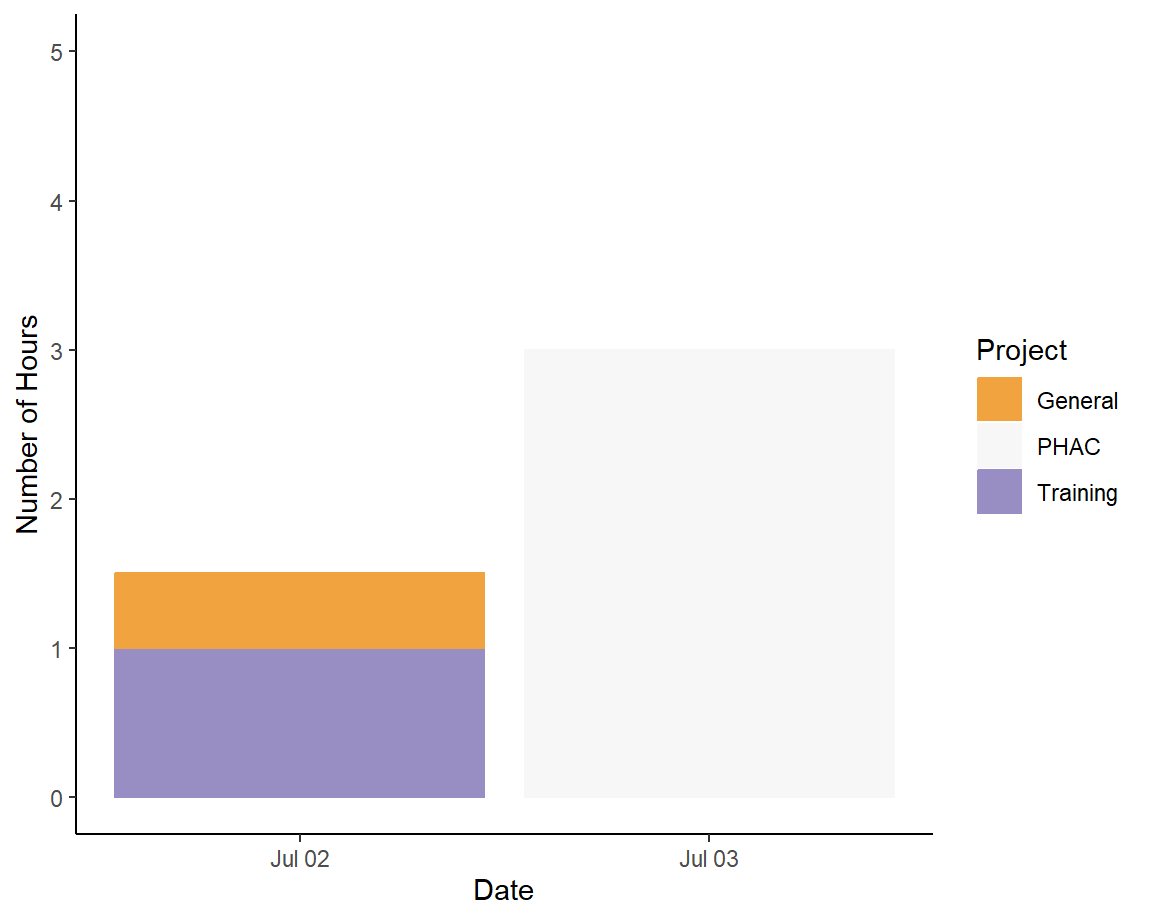
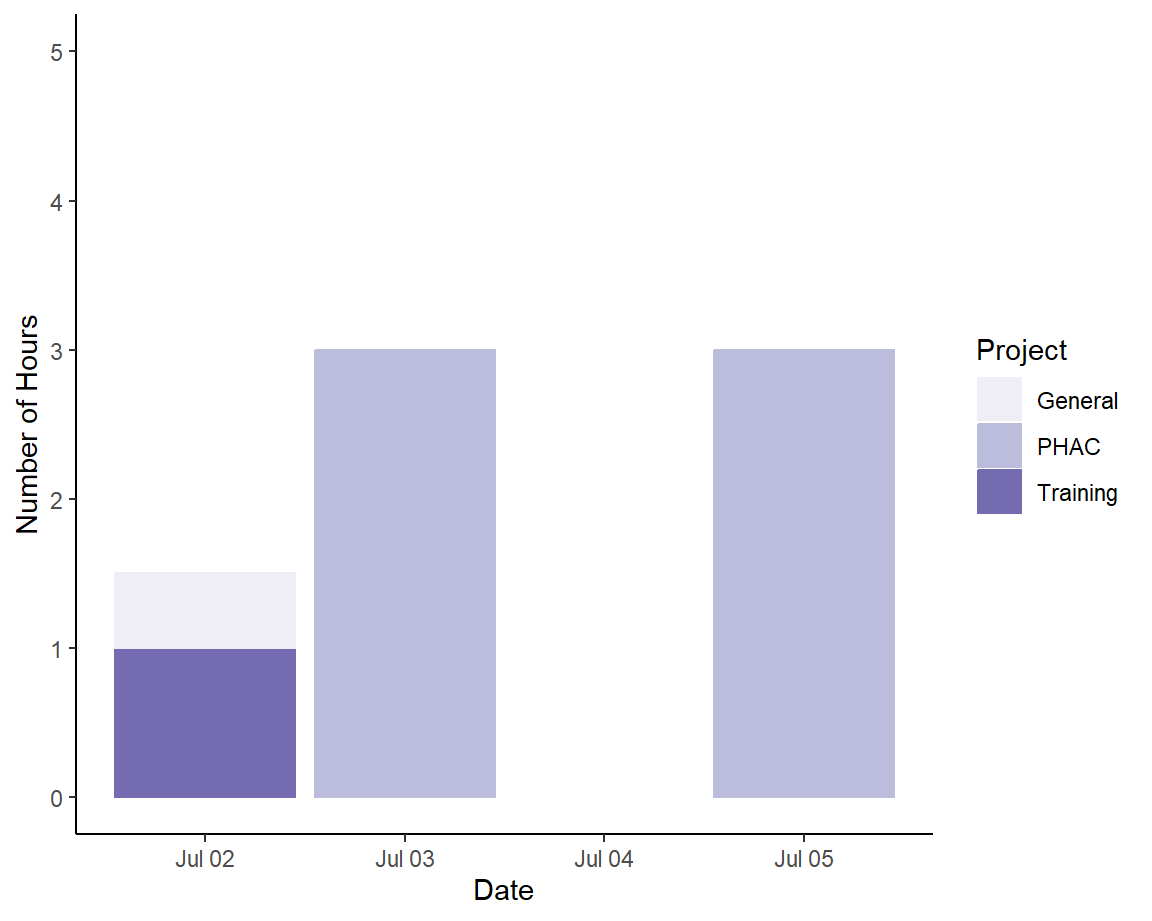
fri

diff --git a/docs/index.html b/docs/index.html
@@ -24,7 +24,7 @@ window.FlexDashboardComponents = [];
 <script src="site_libs/header-attrs-2.25/header-attrs.js"></script>
 <script src="site_libs/jquery-3.6.0/jquery-3.6.0.min.js"></script>
 <meta name="viewport" content="width=device-width, initial-scale=1" />
-<link href="site_libs/bootstrap-3.3.5/css/cosmo.min.css" rel="stylesheet" />
+<link href="site_libs/bootstrap-3.3.5/css/lumen.min.css" rel="stylesheet" />
 <script src="site_libs/bootstrap-3.3.5/js/bootstrap.min.js"></script>
 <script src="site_libs/bootstrap-3.3.5/shim/html5shiv.min.js"></script>
 <script src="site_libs/bootstrap-3.3.5/shim/respond.min.js"></script>
@@ -38,9 +38,9 @@ window.FlexDashboardComponents = [];
        code {color: inherit; background-color: rgba(0, 0, 0, 0.04);}
        pre:not([class]) { background-color: white }</style>
 <script src="site_libs/stickytableheaders-0.1.19/jquery.stickytableheaders.min.js"></script>
-<link href="site_libs/value-box-accent-static-0.6.2/theme-cosmo-value-box.css" rel="stylesheet" />
+<link href="site_libs/value-box-accent-static-0.6.2/theme-lumen-value-box.css" rel="stylesheet" />
 <link href="site_libs/flexdashboard-css-0.6.2/flexdashboard.min.css" rel="stylesheet" />
-<link href="site_libs/flexdashboard-css-0.6.2/theme-cosmo.css" rel="stylesheet" />
+<link href="site_libs/flexdashboard-css-0.6.2/theme-lumen.css" rel="stylesheet" />
 <style type="text/css">
 /*
   CSS for flexdashboard.js' use of Sly(). The sizing/position of this CSS needs to be
@@ -1860,19 +1860,6 @@ window.FlexDashboardComponents.push({
 
 <div id="dashboard-container">
 
-<style>                     
-.navbar {
-
-  background-color:purple;
-  border-color:white;
-}
-.navbar-brand {
-color:white!important;
-}
-
-.navbar, [data-toggle=tab], .navbar-brand  {   background-color:purple!important;   border-color:white;   color:white!important; }
-
-</style>
 <p><em>The purpose of this dashboard is to track my time working as a
 research associate in the McIntyre lab</em>.</p>
 <div id="current-week" class="section level1">
@@ -1940,6 +1927,14 @@ class="section level3">
 <td align="left">PHAC</td>
 <td align="left">Reading grant, sourcing REB docs, sourcing &amp;
 organizing refs in manager, making notes.</td>
+<td align="right">3.0</td>
+</tr>
+<tr class="even">
+<td align="left">2024-07-05</td>
+<td align="left">Friday</td>
+<td align="left">PHAC</td>
+<td align="left">Reading papers, learning about the CTAS and ICD codes,
+making notes.</td>
 <td align="right">3.0</td>
 </tr>
 </tbody>
